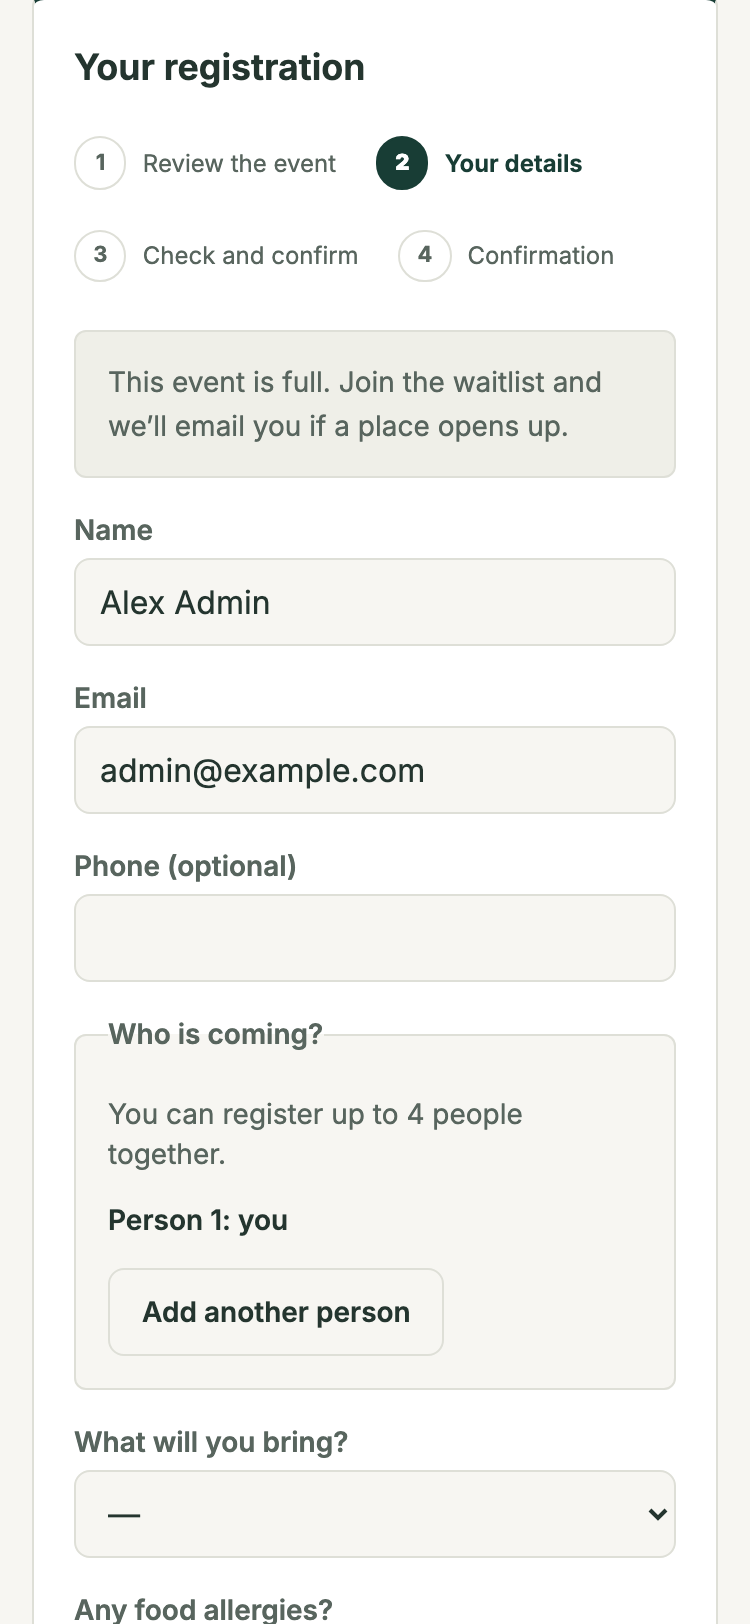
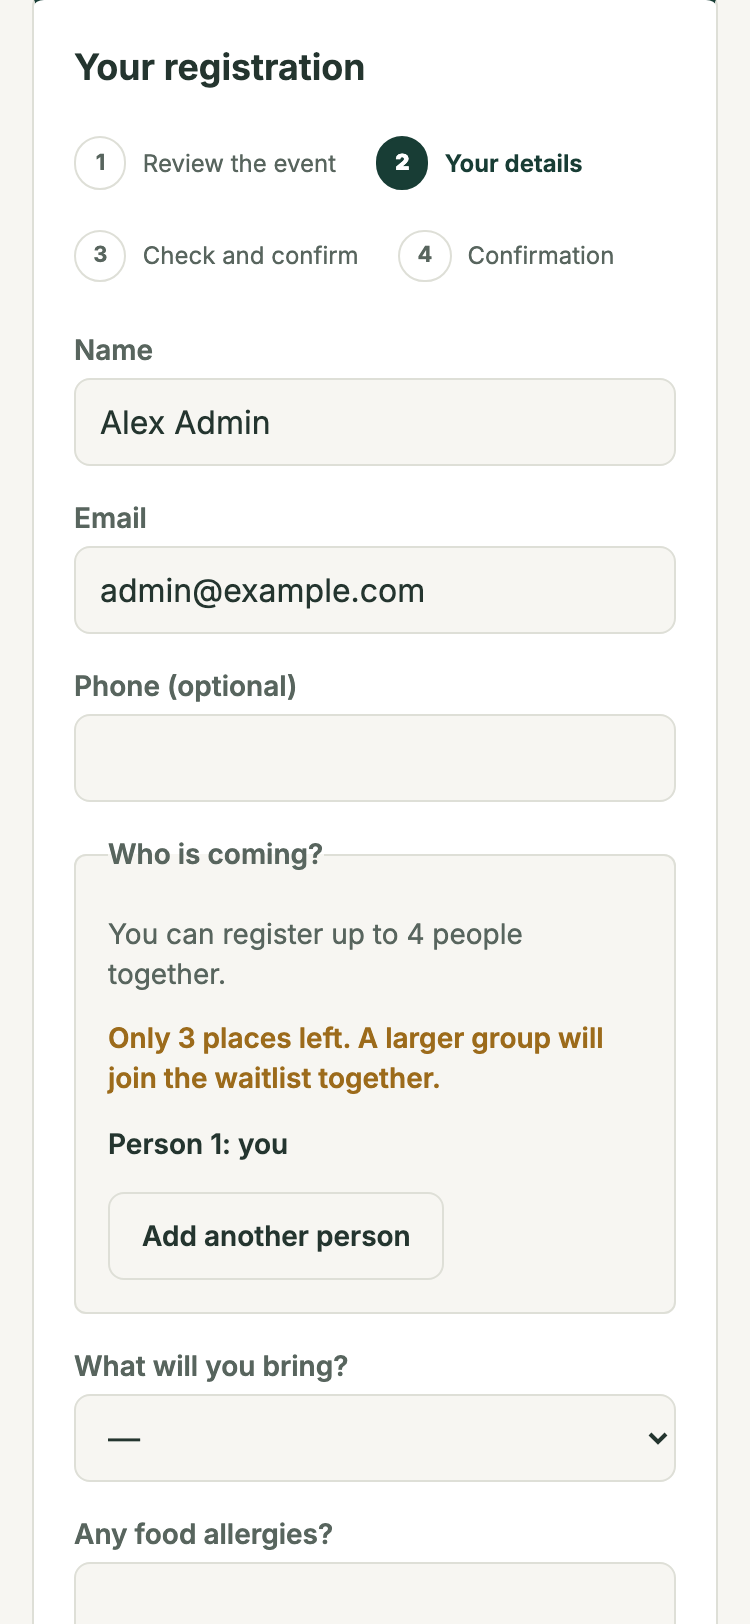
fix(registration): keep typed edits beside their errors, local event dates, honeypot through review, guest completion landing test
A bounced edit on the manage page or /my/events/<id> shows what was typed next to each
error instead of the stored values. Registration pages and the admin list show the date
badge and times in the church time zone, the review step carries the honeypot, the roster
shows a lone person when it is not the contact, and the e2e asserts the party's
confirmation mail and the guest completion redirect. The screenshot set adds the edit and
cancel half of the manage page.

diff --git a/test/identityBusinessContinuation.test.ts b/test/identityBusinessContinuation.test.ts
@@ -247,6 +247,33 @@ describe('identity business continuations', () => {
     expect(replay.headers.get('location')).toBe('/en/register/done?ok=1&status=waitlist');
   });
 
+  it('a guest who completes registration lands on the manage page with the token in the fragment only', async () => {
+    const eventId = 810_031;
+    await createD1RegistrationSchema(eventId, 5, false);
+    await env.DB.prepare('UPDATE reg_events SET max_party_size=3 WHERE id=?1').bind(eventId).run();
+    const intentId = crypto.randomUUID();
+    // Real clock: the route completes with the current time, so the intent must be current too.
+    const begun = await beginRegistrationContinuation(env.DB, continuationEnv, {
+      campusId: 1, intentId, event: { ...freeEvent(eventId), max_party_size: 3 }, name: 'Guest Parent', email: `guest-${intentId}@example.test`,
+      locale: 'en', answers: [], party: { phone: '555 0100', attendees: [{ name: 'Guest Parent' }, { name: 'Guest Child' }] },
+      requestContext: identityTrustedRequestContext(new Headers({ 'CF-Connecting-IP': '203.0.113.121' }), intentId),
+    });
+    if (begun.status !== 'verification_required') throw new Error('expected verification');
+    const response = await replayThroughCompletionRoute({
+      kind: 'registration', intentId, publicId: begun.delivery.publicId, code: begun.delivery.code,
+      returnPath: `/en/register/${eventId}`,
+    });
+    expect(response.status).toBe(303);
+    const location = response.headers.get('location') ?? '';
+    expect(location).toMatch(/^\/en\/register\/manage\?new=1#t=[A-Za-z0-9_-]{43}$/);
+    expect(new URL(location, 'https://church.example').search).toBe('?new=1');
+    const token = /#t=(.{43})$/.exec(location)![1];
+    const ref = await findRegistrationByToken(env.DB, token);
+    expect(ref).not.toBeNull();
+    const people = await env.DB.prepare(`SELECT name FROM reg_attendees WHERE registration_id=?1 ORDER BY sort`).bind(ref!.id).all<{ name: string }>();
+    expect(people.results.map((a) => a.name)).toEqual(['Guest Parent', 'Guest Child']);
+  });
+
   it('a full free event with the waitlist off aborts the whole batch: nothing inserted, counter untouched, claim released', async () => {
     const eventId = 810_021;
     await createD1RegistrationSchema(eventId, 1, false);

diff --git a/src/lib/manage-client.ts b/src/lib/manage-client.ts
@@ -38,13 +38,16 @@ export function initManagePage(root: Document = document, fetcher: typeof fetch 
 
   let busy = false;
   let first = true;
-  const show = (view: RegistrationView, extra: { notice?: 'saved' | 'cancelled' | null; errors?: ViewError[] } = {}): void => {
+  // The last edit attempt, shown again if the server bounces it.
+  let lastFields: Record<string, string[]> | undefined;
+  const show = (view: RegistrationView, extra: { notice?: 'saved' | 'cancelled' | null; errors?: ViewError[]; fields?: Record<string, string[]> } = {}): void => {
     container.innerHTML = renderRegistrationView(view, {
       mode: 'token',
       labels,
       isNew: first && isNew,
       notice: extra.notice ?? null,
       errors: extra.errors,
+      fields: extra.fields,
     });
     first = false;
     const focus = container.querySelector<HTMLElement>('[aria-invalid="true"]') ?? container.querySelector<HTMLElement>('#e-summary');
@@ -78,7 +81,7 @@ export function initManagePage(root: Document = document, fetcher: typeof fetch 
     }
     if (res.ok && 'view' in body && 'ok' in body) return show(body.view, { notice: body.notice });
     const fail = body as ApiFail;
-    if (res.status === 422 && fail.view) return show(fail.view, { errors: fail.errors });
+    if (res.status === 422 && fail.view) return show(fail.view, { errors: fail.errors, fields: lastFields });
     if (res.status === 409 && fail.view) {
       show(fail.view);
       const note = root.createElement('p');
@@ -126,6 +129,7 @@ export function initManagePage(root: Document = document, fetcher: typeof fetch 
     if (action === 'update') {
       const fields: Record<string, string[]> = {};
       for (const [key, value] of data.entries()) if (typeof value === 'string') (fields[key] ??= []).push(value);
+      lastFields = fields;
       void run('update', { fields });
     } else if (action === 'cancel_attendee') {
       void run('cancel_attendee', { attendee_id: Number(data.get('attendee_id')) });

diff --git a/src/lib/regViewHtml.ts b/src/lib/regViewHtml.ts
@@ -151,6 +151,8 @@ export interface RenderOptions {
   isNew?: boolean;
   /** Edit-form validation problems from the last attempt. */
   errors?: ViewError[];
+  /** What was typed in the last attempt (edit-form field names): shown instead of the stored values, so a bounced edit loses nothing. */
+  fields?: Record<string, string[]>;
 }
 
 const STATUS_CHIP: Record<ViewStatus, string> = {
@@ -241,14 +243,17 @@ export function renderRegistrationView(view: RegistrationView, o: RenderOptions)
   // Edit form.
   if (view.canEdit) {
     const err = (path: string) => errorsByPath.get(path);
-    const field = (id: string, name: string, label: string, value: string, path: string, extra = '') => {
+    const typed = o.fields;
+    const field = (id: string, name: string, label: string, stored: string, path: string, extra = '') => {
       const e = err(path);
+      const value = typed && name in typed ? (typed[name][0] ?? '') : stored;
       return `<label class="block"><span class="${lab}">${esc(label)}</span><input id="${esc(id)}" name="${esc(name)}" class="${tin}" value="${esc(value)}"${extra}${e ? ` aria-invalid="true" aria-describedby="${esc(id)}-err"` : ''}>${e ? `<p id="${esc(id)}-err" class="${errorText}">${esc(e)}</p>` : ''}</label>`;
     };
     const people = active
       .map((a, i) => field(`e-attendee-${a.id}`, `attendee_${a.id}`, L(lb, 'register.party.person', { n: i + 1 }), a.name, `attendees.${i}.name`, ' maxlength="120"'))
       .join('');
     const questions = view.questions
+      .map((q) => (typed && `a_${q.id}` in typed ? { ...q, value: typed[`a_${q.id}`] } : q))
       .map((q) => renderQuestionField(q, { name: `a_${q.id}`, id: `e-q-${q.id}`, error: err(`q.${q.id}`), yes: L(lb, 'register.yes'), no: L(lb, 'register.no') }))
       .join('');
     out.push(

diff --git a/test/regViewHtml.test.ts b/test/regViewHtml.test.ts
@@ -83,6 +83,22 @@ describe('renderRegistrationView', () => {
     expect(bad).toContain('id="e-q-11-err"');
   });
 
+  it('shows what was typed beside the error, so a bounced edit loses nothing', () => {
+    const html = renderRegistrationView(view(), {
+      mode: 'session',
+      action: '/en/my/events/9',
+      labels,
+      errors: [{ path: 'contact.phone', code: 'invalid' }],
+      fields: { name: ['Ada Typed'], phone: ['call me'], attendee_2: ['Byron Typed'], a_11: ['Typed answer'] },
+    });
+    expect(html).toContain('value="Ada Typed"');
+    expect(html).toContain('value="call me"');
+    expect(html).toContain('value="Byron Typed"');
+    expect(html).toContain('value="Typed answer"');
+    expect(html).not.toContain('value="Ada"'); // the stored name is replaced, not shown twice
+    expect(html).toContain('aria-describedby="e-phone-err"');
+  });
+
   it('shows no actions on a cancelled registration', () => {
     const html = renderRegistrationView(view({ registration: { ...view().registration, status: 'cancelled' }, canEdit: false, canCancel: false }), { mode: 'token', labels });
     expect(html).not.toContain('data-reg-form');

diff --git a/test/e2e/registration.e2e.test.ts b/test/e2e/registration.e2e.test.ts
@@ -417,6 +417,13 @@ describe('Registration on D1: a family signs up, reviews, manages and cancels on
     const waitlisted = await register(...GRACE);
     expect(waitlisted.headers.get('location')).toMatch(MANAGE_LOCATION);
     expect(await env.DB.prepare(`SELECT status FROM registrations WHERE person_id = ?1`).bind(GRACE[0]).first<string>('status')).toBe('waitlist');
+    // Each registration was mailed its confirmation once (the double submit sent nothing more), with no token in the log.
+    const confirmations = (await env.DB.prepare(`SELECT kind, to_email FROM email_log ORDER BY id`).all<{ kind: string; to_email: string }>()).results;
+    expect(confirmations.map((m) => [m.kind, m.to_email])).toEqual([
+      ['regConfirm', SARAH[1]],
+      ['regConfirm', GRACE[1]],
+    ]);
+    expect(await env.DB.prepare(`SELECT count(*) n FROM registrations WHERE confirmation_sent_at IS NOT NULL`).first<number>('n')).toBe(2);
     await env.DB.prepare(`DELETE FROM email_log`).run();
 
     // ... is promoted when Sarah says one person cannot come.

diff --git a/test/manageClient.test.ts b/test/manageClient.test.ts
@@ -1,0 +1,16 @@
+// The manage page script reads its credential from the URL fragment only.
+import { describe, expect, it } from 'vitest';
+import { tokenFromHash } from '../src/lib/manage-client';
+
+describe('tokenFromHash', () => {
+  const token = 'A'.repeat(21) + '-_' + 'b'.repeat(20);
+  it('reads a well-formed #t= fragment', () => {
+    expect(token).toHaveLength(43);
+    expect(tokenFromHash(`#t=${token}`)).toBe(token);
+  });
+  it('rejects anything else, including a token in a query-like position or the wrong length', () => {
+    for (const hash of ['', '#', `#${token}`, `#t=${token}x`, `#t=${token.slice(1)}`, `#x=1&t=${token}`, `?t=${token}`, '#t=%3Cscript%3E']) {
+      expect(tokenFromHash(hash)).toBeNull();
+    }
+  });
+});

diff --git a/test/pg/regDb.test.ts b/test/pg/regDb.test.ts
@@ -416,7 +416,7 @@ describe.skipIf(!hasPg)('regDb (Postgres)', () => {
 
     const csv = await registrationsCsv(db, 'en', ev);
     const lines = csv.split('\r\n');
-    expect(lines[0]).toBe('Confirmation,Name,Email,Status,Party size,Amount,Registered,Comment');
+    expect(lines[0]).toBe('Confirmation,Name,Email,Status,Party size,Amount,Registered,Comment,People,Phone');
     expect(lines[1]).toMatch(/^R\d\d-0002,Second Reg,/); // newest first (id tiebreak)
     expect(lines[2]).toMatch(/^R\d\d-0001,First Reg,/);
     expect(lines[2]).toContain('15.00'); // integer cents → dollars
